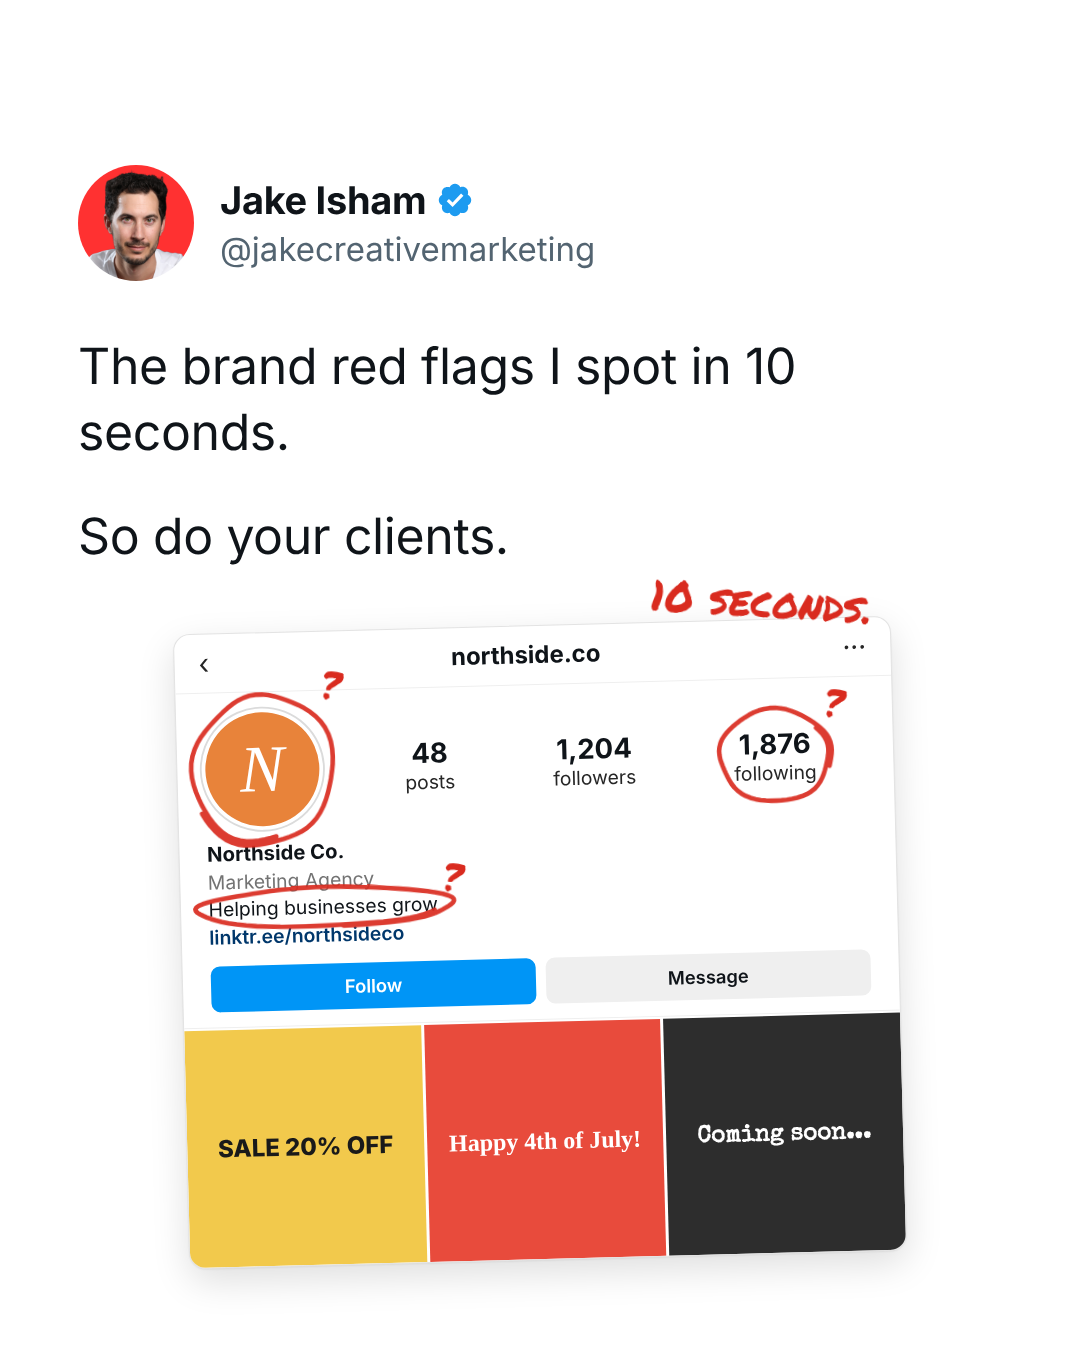
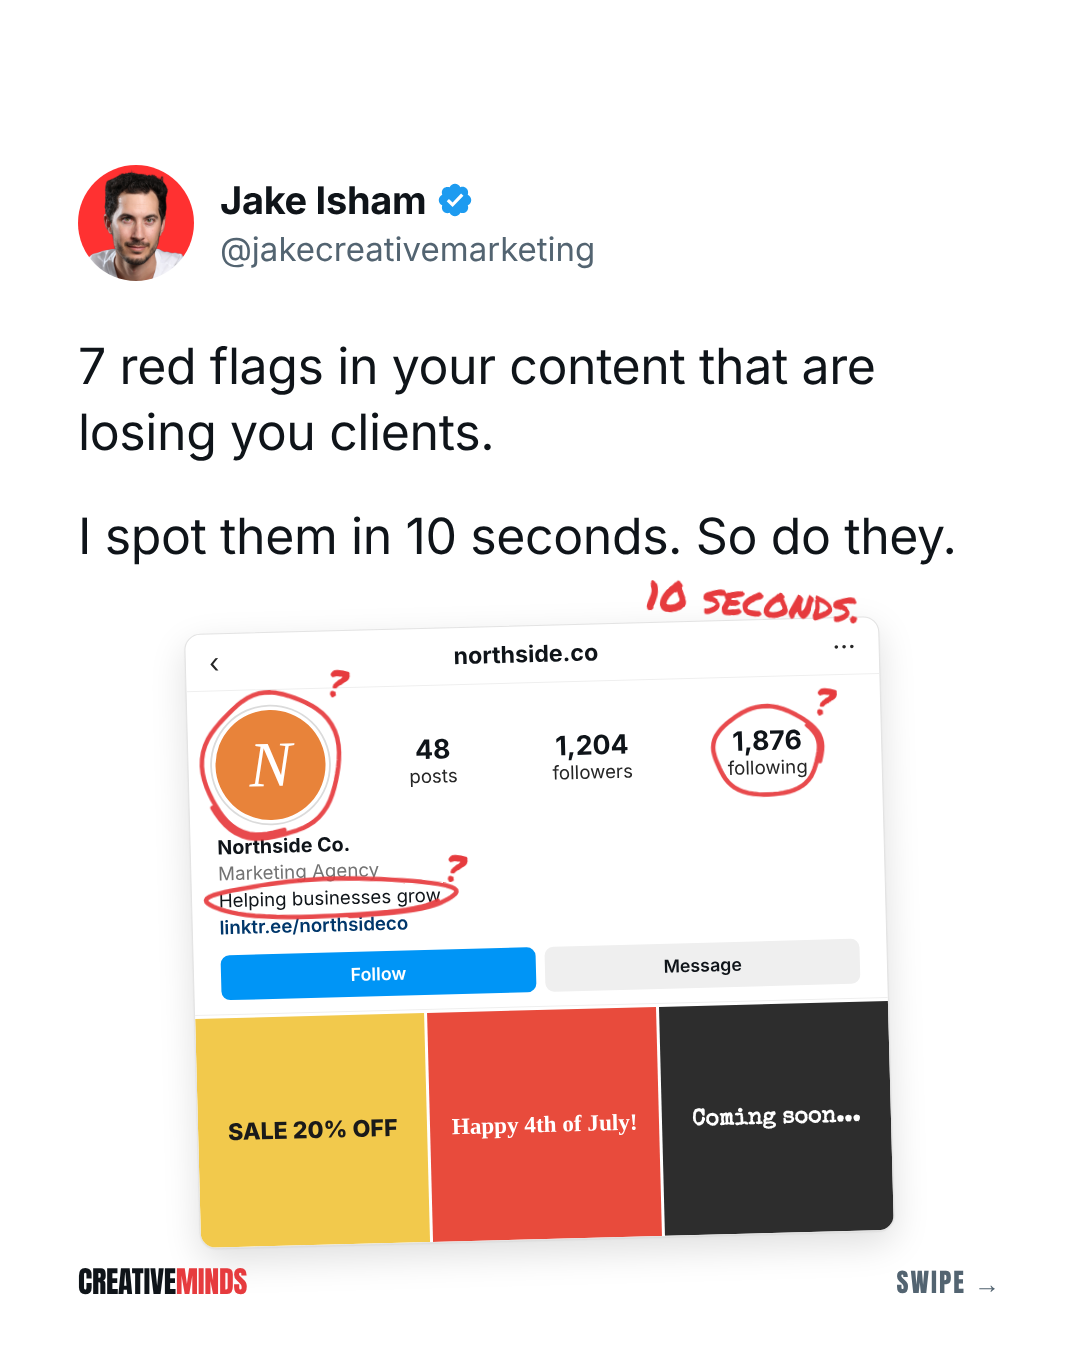
Brand carousel 2: new hook, Creative Minds red ink and wordmark
Claude-Session: https://claude.ai/code/session_01D8m2CieG2bQZ12nfMZZnuH

diff --git a/src/styles.css b/src/styles.css
@@ -110,7 +110,7 @@ html, body {
 }
 .ink-layer { position: absolute; inset: 0; pointer-events: none; z-index: 5; }
 .ink-svg { position: absolute; left: 0; top: 0; overflow: visible; mix-blend-mode: multiply; }
-.ink-note { position: absolute; font-family: "Marker"; color: #d92b1f; line-height: 1.02; white-space: nowrap; }
+.ink-note { position: absolute; font-family: "Marker"; color: var(--accent, #d92b1f); line-height: 1.02; white-space: nowrap; }
 
 /* browser chrome */
 .sx-bar { height: 50px; background: #f1f3f4; border-bottom: 1px solid #e0e0e0; display: flex; align-items: center; gap: 9px; padding: 0 18px; }
@@ -271,3 +271,11 @@ html, body {
 .qz-opts { display: flex; gap: 10px; margin-top: 14px; }
 .qz-opts div { flex: 1; border: 1.5px solid #d1d5db; border-radius: 10px; padding: 10px; font-size: 18px; text-align: center; }
 .qz-btn { display: inline-block; margin-top: 24px; background: #111; color: #fff; font-size: 23px; font-weight: 700; padding: 16px 32px; border-radius: 12px; }
+
+/* ---------- brand footer ---------- */
+@font-face { font-family: "Condensed"; src: url("../assets/fonts/anton-latin-400-normal.woff2"); }
+.footer { position: absolute; left: 78px; right: 78px; bottom: 46px; display: flex; justify-content: space-between; align-items: center; }
+.wordmark { font-family: "Condensed"; font-size: 30px; letter-spacing: -.3px; color: var(--ink); }
+.wordmark span { color: var(--accent); }
+.swipe { font-family: "Condensed"; font-size: 26px; letter-spacing: 2px; color: var(--muted); }
+.slide { position: relative; }

diff --git a/src/ink.js b/src/ink.js
@@ -4,7 +4,7 @@
 // type: circle | underline | strike | check | cross | note. `target`/`near`/`arrowTo` name a [data-k] element.
 (async () => {
   await document.fonts.ready;
-  const RED = "#d92b1f";
+  const RED = getComputedStyle(document.documentElement).getPropertyValue("--accent").trim() || "#d92b1f";
   const NS = "http://www.w3.org/2000/svg";
 
   const rng = (seed) => {
@@ -83,7 +83,7 @@
     const spec = JSON.parse(wrap.querySelector(".ink-spec").textContent);
     // Scale the screenshot to fill the space left on the slide (never past 1.2x).
     const pre = wrap.getBoundingClientRect();
-    const availW = 924, availH = window.innerHeight - 90 - pre.top;
+    const availW = 924, availH = window.innerHeight - 110 - pre.top;
     const z = spec.zoom ?? Math.min(1.2, availW / pre.width, availH / pre.height);
     wrap.style.zoom = z;
     // Short screenshots sit a little lower so the slide doesn't feel top-heavy.
